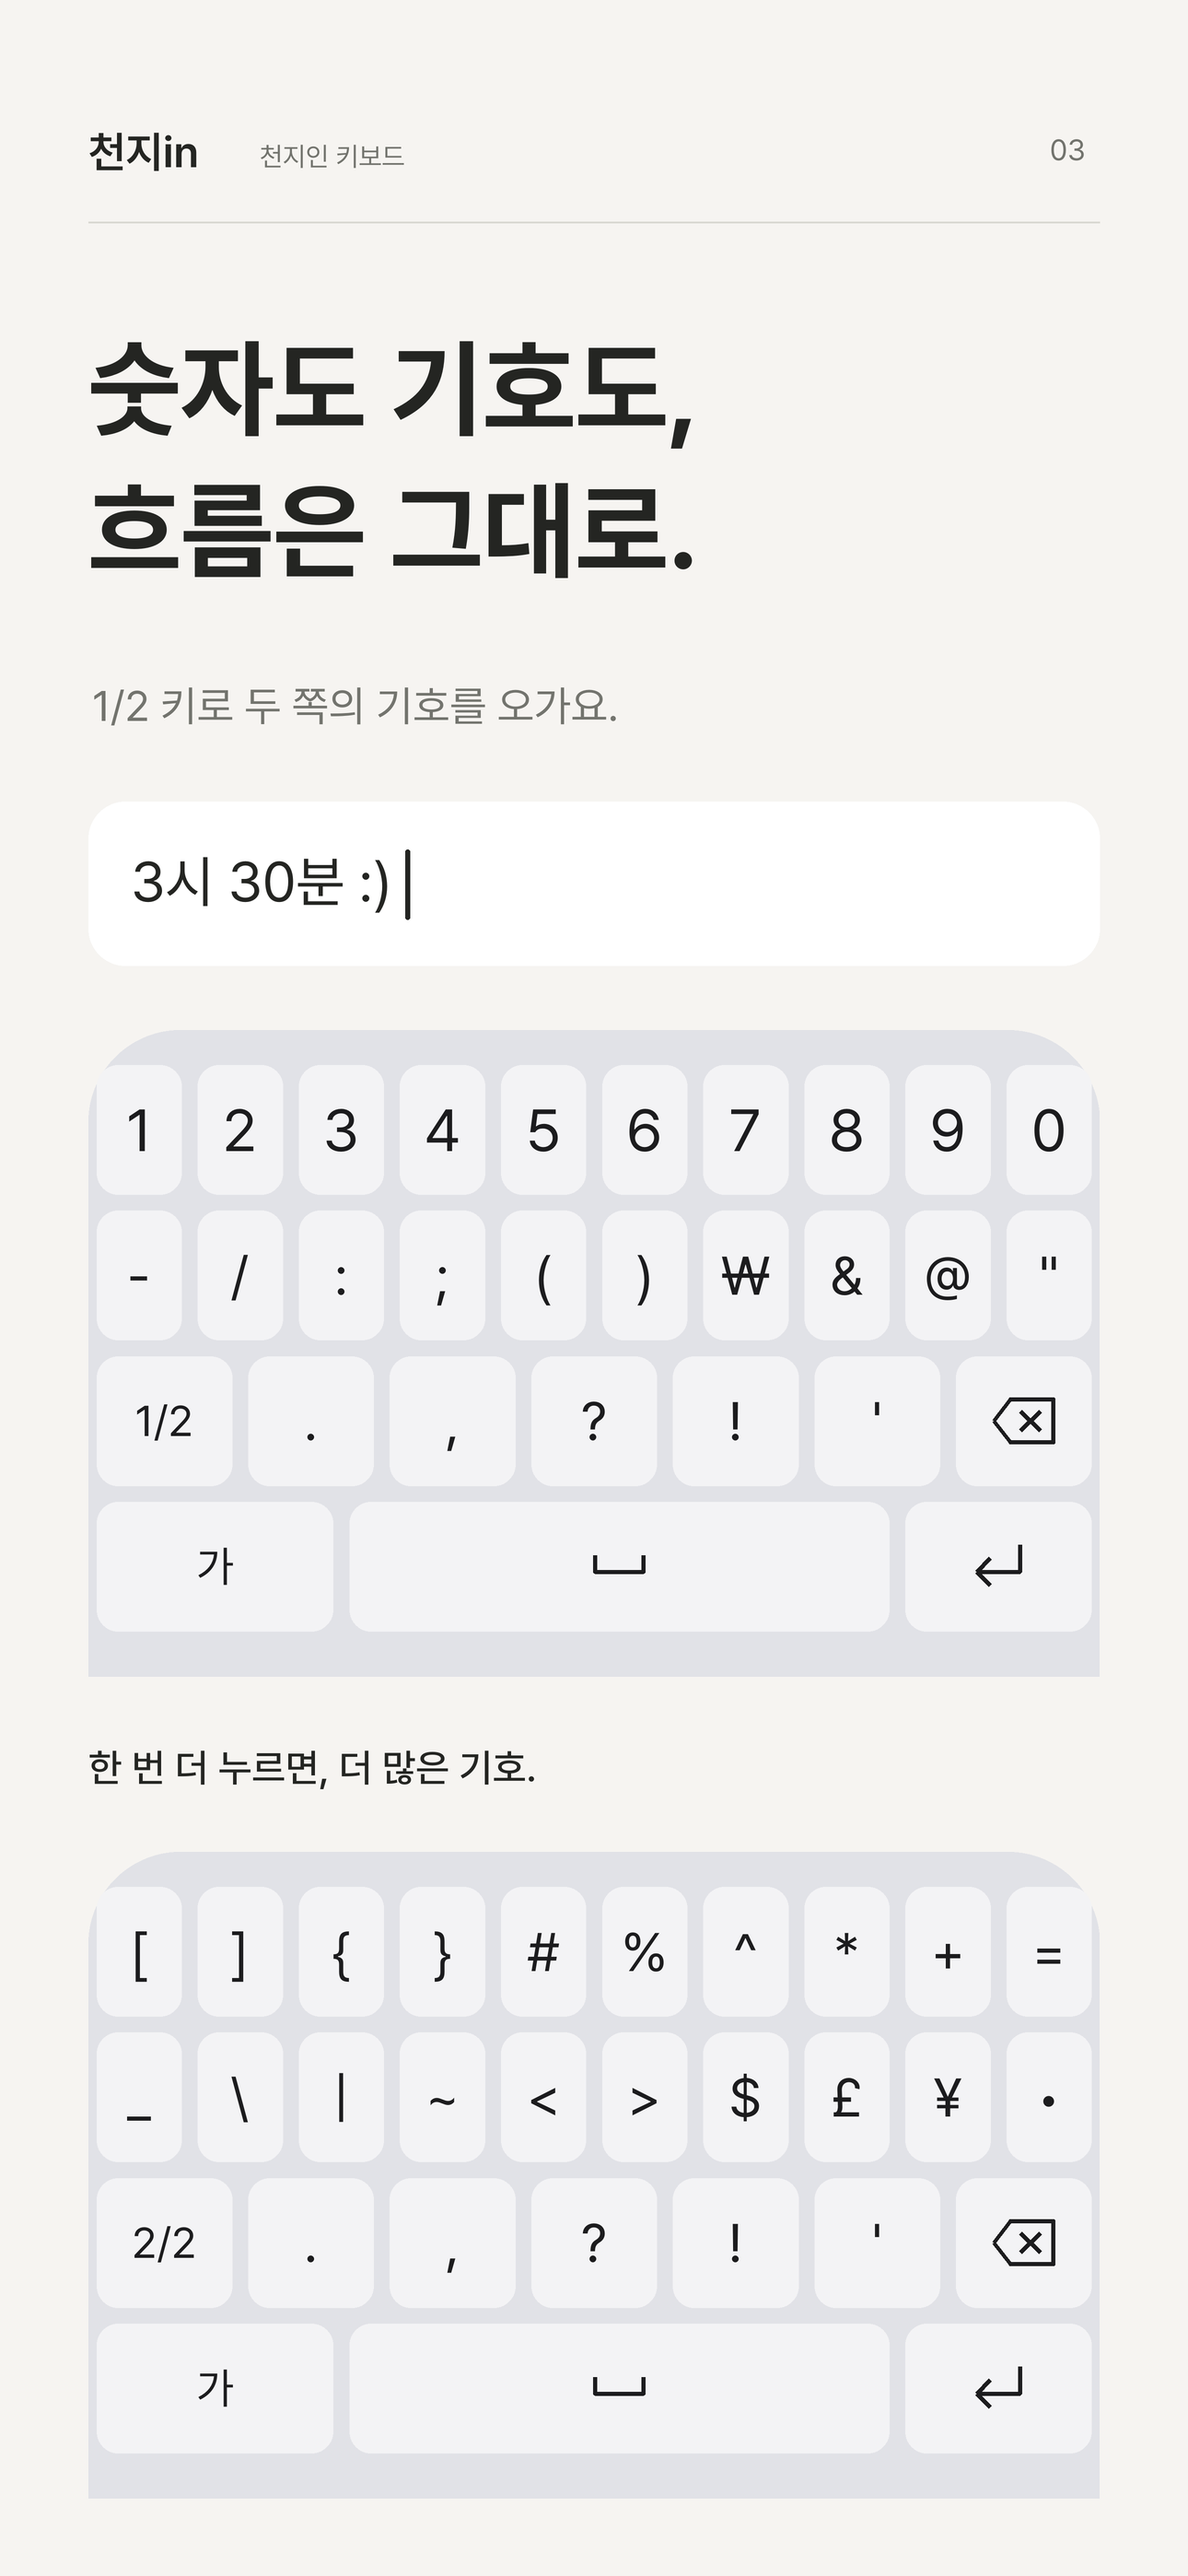
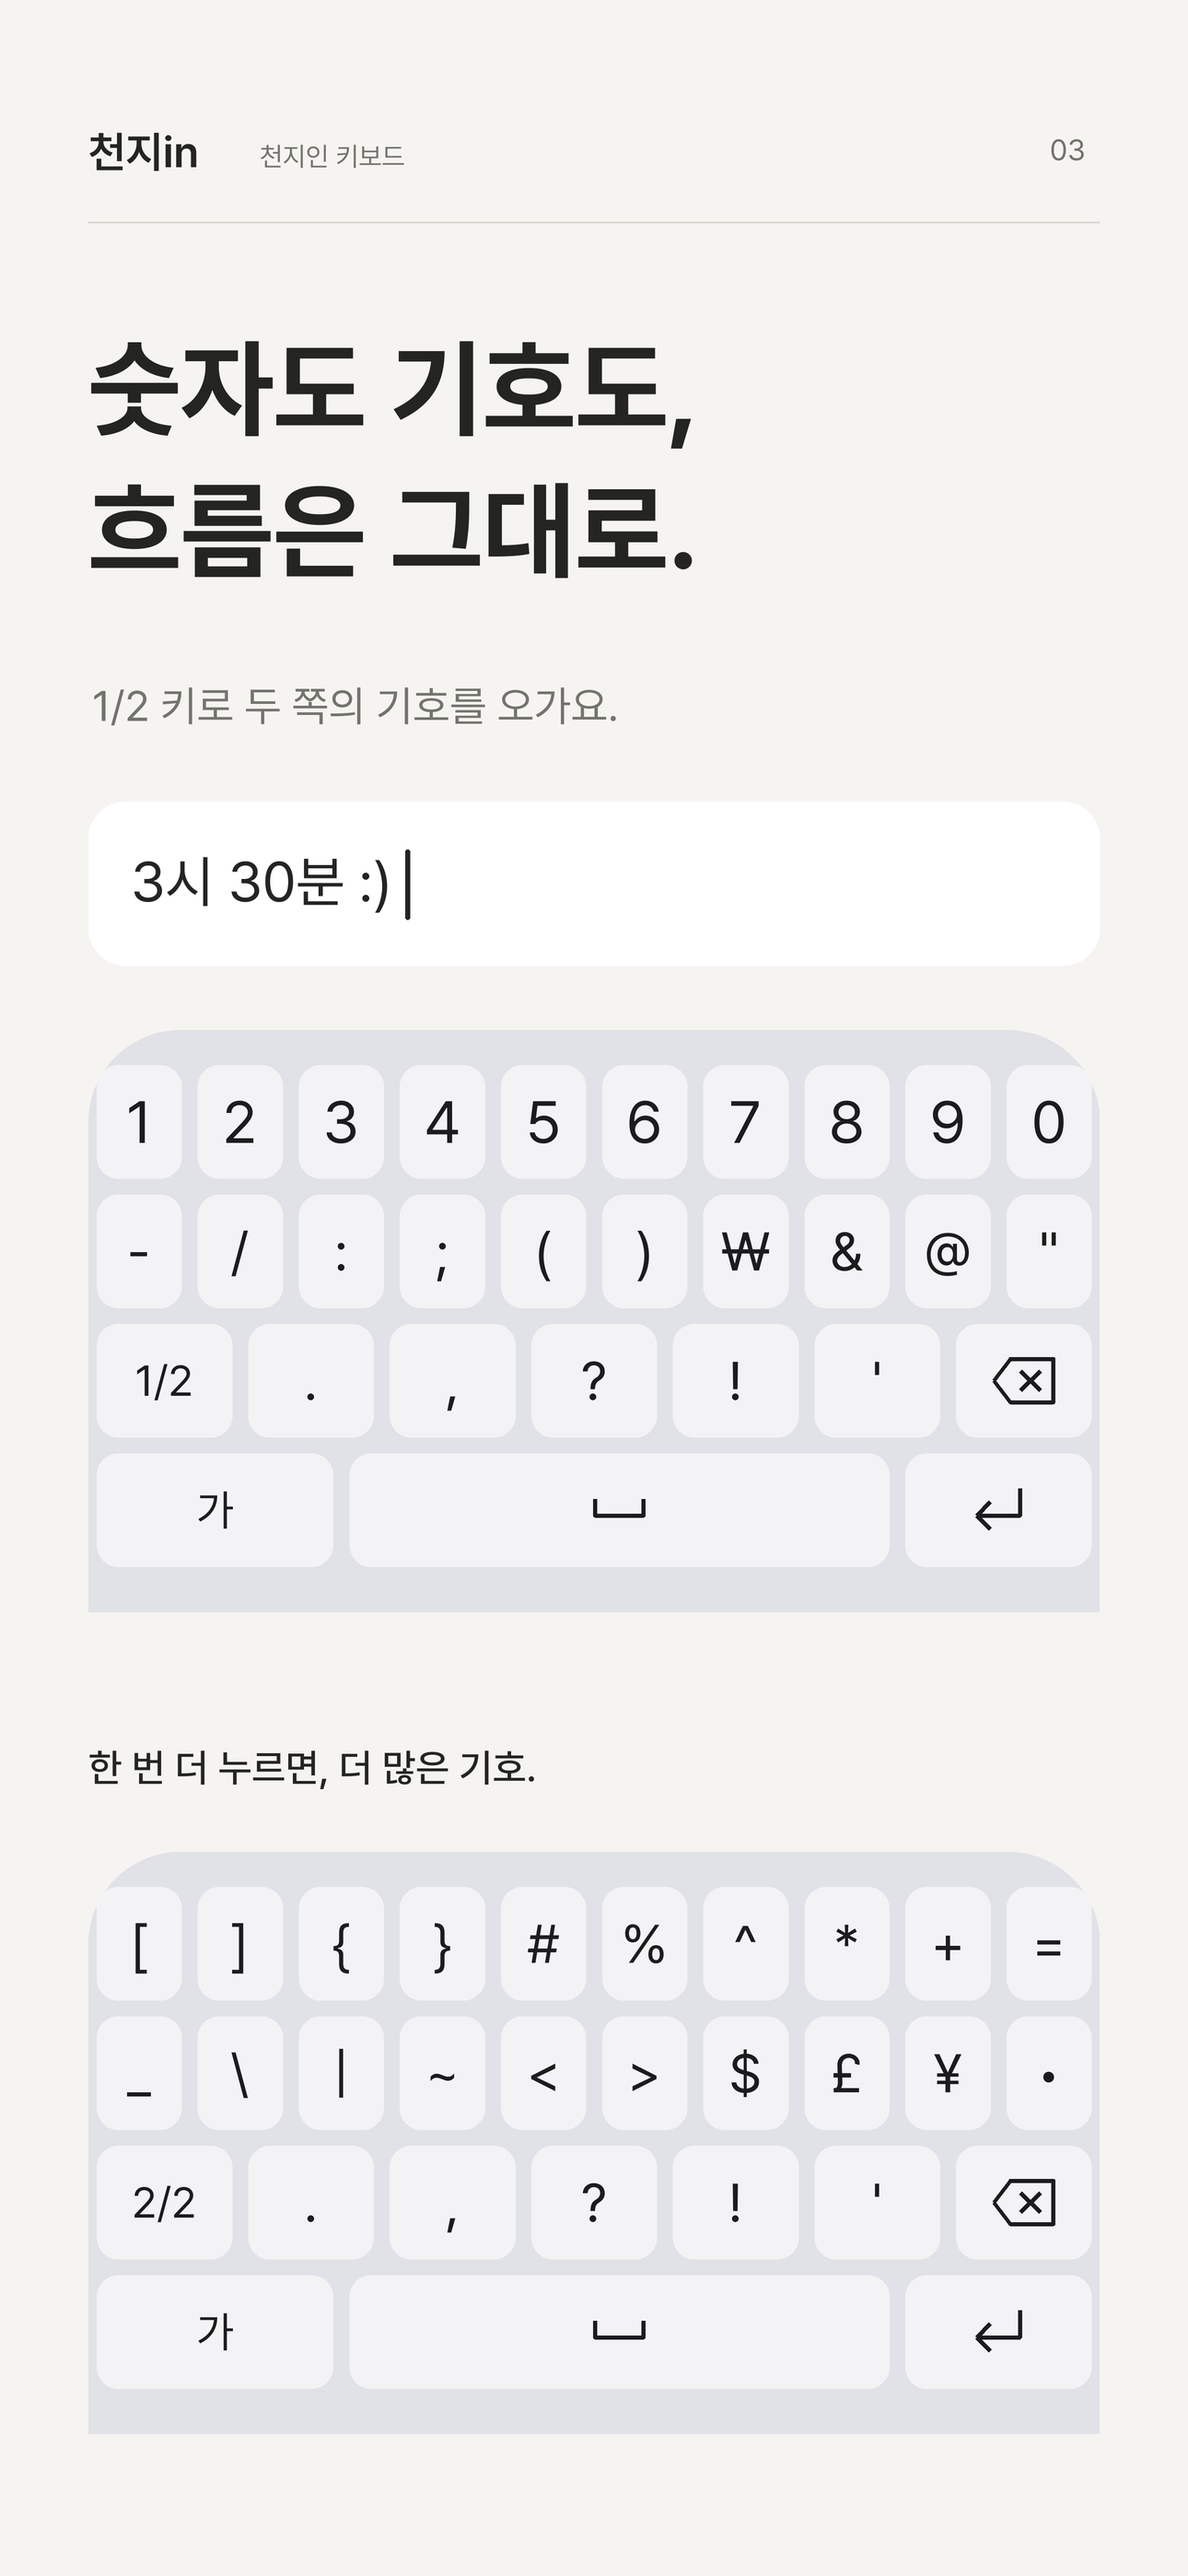
1.0.1: 버전·스토어 문구·스크린샷 지구본 키

diff --git a/tools/branding.py b/tools/branding.py
@@ -89,6 +89,16 @@ def key_label(d, rect, content, s):
         d.line([(cx + r, cy - r), (cx + r, cy + 2 * s), (cx - r, cy + 2 * s)], fill=INK, width=int(lw), joint="curve")
         d.line([(cx - r, cy + 2 * s), (cx - r + 5 * s, cy - 3 * s)], fill=INK, width=int(lw))
         d.line([(cx - r, cy + 2 * s), (cx - r + 5 * s, cy + 7 * s)], fill=INK, width=int(lw))
+    elif kind == "globe":
+        r = 9 * s
+        w = max(1, int(1.1 * s))
+        d.ellipse([cx - r, cy - r, cx + r, cy + r], outline=INK, width=w)
+        d.ellipse([cx - r * 0.45, cy - r, cx + r * 0.45, cy + r], outline=INK, width=w)
+        d.line([(cx - r, cy), (cx + r, cy)], fill=INK, width=w)
+        d.line([(cx, cy - r), (cx, cy + r)], fill=INK, width=w)
+        for dy in (-0.5, 0.5):
+            half = r * (1 - dy * dy) ** 0.5
+            d.line([(cx - half, cy + dy * r), (cx + half, cy + dy * r)], fill=INK, width=w)
     elif kind == "space":
         w = 18 * s
         d.line([(cx - w / 2, cy - 4 * s), (cx - w / 2, cy + 2 * s), (cx + w / 2, cy + 2 * s), (cx + w / 2, cy - 4 * s)],
@@ -98,7 +108,7 @@ def key_label(d, rect, content, s):
 def keyboard(width_px: int, layer: str = "korean", page: int = 0) -> Image.Image:
     """실제 키보드와 같은 배치를 width_px 폭으로 그린다(375pt 기준 비율)."""
     s = width_px * SS / 375
-    row = 54 * s
+    row = 48 * s  # 앱 기본 줄 높이와 같게
     top = 10 * s
     height = top + row * 4 + 14 * s
     img = Image.new("RGB", (int(width_px * SS), int(height)), CREAM)
@@ -120,7 +130,7 @@ def keyboard(width_px: int, layer: str = "korean", page: int = 0) -> Image.Image
                 add(content, c * col, top + r * row, col, row)
         y = top + 3 * row
         add(("text", ("123", 16)), 0, y, col / 2, row)
-        add(("text", ("한/A", 15)), col / 2, y, col / 2, row)
+        add(("globe", None), col / 2, y, col / 2, row)
         add(("text", ("ㅇ ㅁ", 19)), col, y, col, row)
         add(("space", None), 2 * col, y, col, row)
         side = 375 * s - 3 * col

diff --git a/branding/app-store.md b/branding/app-store.md
@@ -17,7 +17,13 @@
 · 키를 누르는 순간 바로 입력돼요.
 · 지울 때는 누른 순서를 거꾸로 되감아요. 가기 → 각 → 가
 · 간격 키는 조합 중일 때 조합만 끝내고, 아니면 띄어써요.
-· 간격 키를 좌우로 끌면 커서가 움직여요.
+· 글자 키나 간격 키를 좌우로 밀면 커서가 움직여요.
+· 키를 꾹 누르면 같은 글자가 계속 들어가요. ㅋㅋㅋ, ㅠㅠㅠ
+· 가로 화면에서는 두벌식 자판으로 바뀌어요.
+
+■ 내 손에 맞게
+· 지구본 키로 천지인·두벌식·English를 원하는 순서로 오가요.
+· 연속 입력 빠르기, 진동 세기, 키 소리, 키 높이, 커서 감도를 앱에서 바꿀 수 있어요.
 
 ■ 조용하게
 · 광고, 추적, 구독이 없어요.
@@ -30,6 +36,14 @@
 
 ■ 시작하기
 설정 › 천지in › 키보드에서 '천지in'을 켠 뒤, 입력창에서 지구본 키를 눌러 고르세요.
+
+## 이번 버전 (1.0.1)
+
+· 지구본 키: 천지인·두벌식·English를 원하는 순서로 오가요.
+· 앱에서 설정: 언어 목록, 연속 입력, 진동 세기, 키 소리, 키 높이, 커서 감도
+· 가로 화면 두벌식, 꾹 눌러 연속 입력(ㅋㅋㅋ), 글자 키를 밀어 커서 이동
+· 키 소리 추가, 반응 속도 개선
+· 메시지를 보낸 뒤 앞 글자가 다시 끼던 문제와, 선택된 글이 밀기로 지워지던 문제를 고쳤어요.
 
 ## 키워드 (100자, 쉼표 구분)
 
@@ -44,4 +58,4 @@
 
 키보드 확장 앱입니다. 설정 › 일반 › 키보드 › 키보드 › 새로운 키보드 추가에서 '천지in'을 추가하면 동작합니다.
 전체 접근 없이도 모든 입력 기능이 동작하며, 전체 접근은 진동과 키 소리에만 사용합니다. 네트워크를 사용하지 않습니다.
-'한/A' 키를 길게 누르면 다음 키보드로 전환됩니다.
+지구본 키를 탭하면 앱에서 설정한 언어(천지인·두벌식·English) 사이를 전환하고, 길게 누르면 다음 키보드로 전환됩니다. 앱 설정은 App Group 저장소로만 키보드에 전달됩니다.
